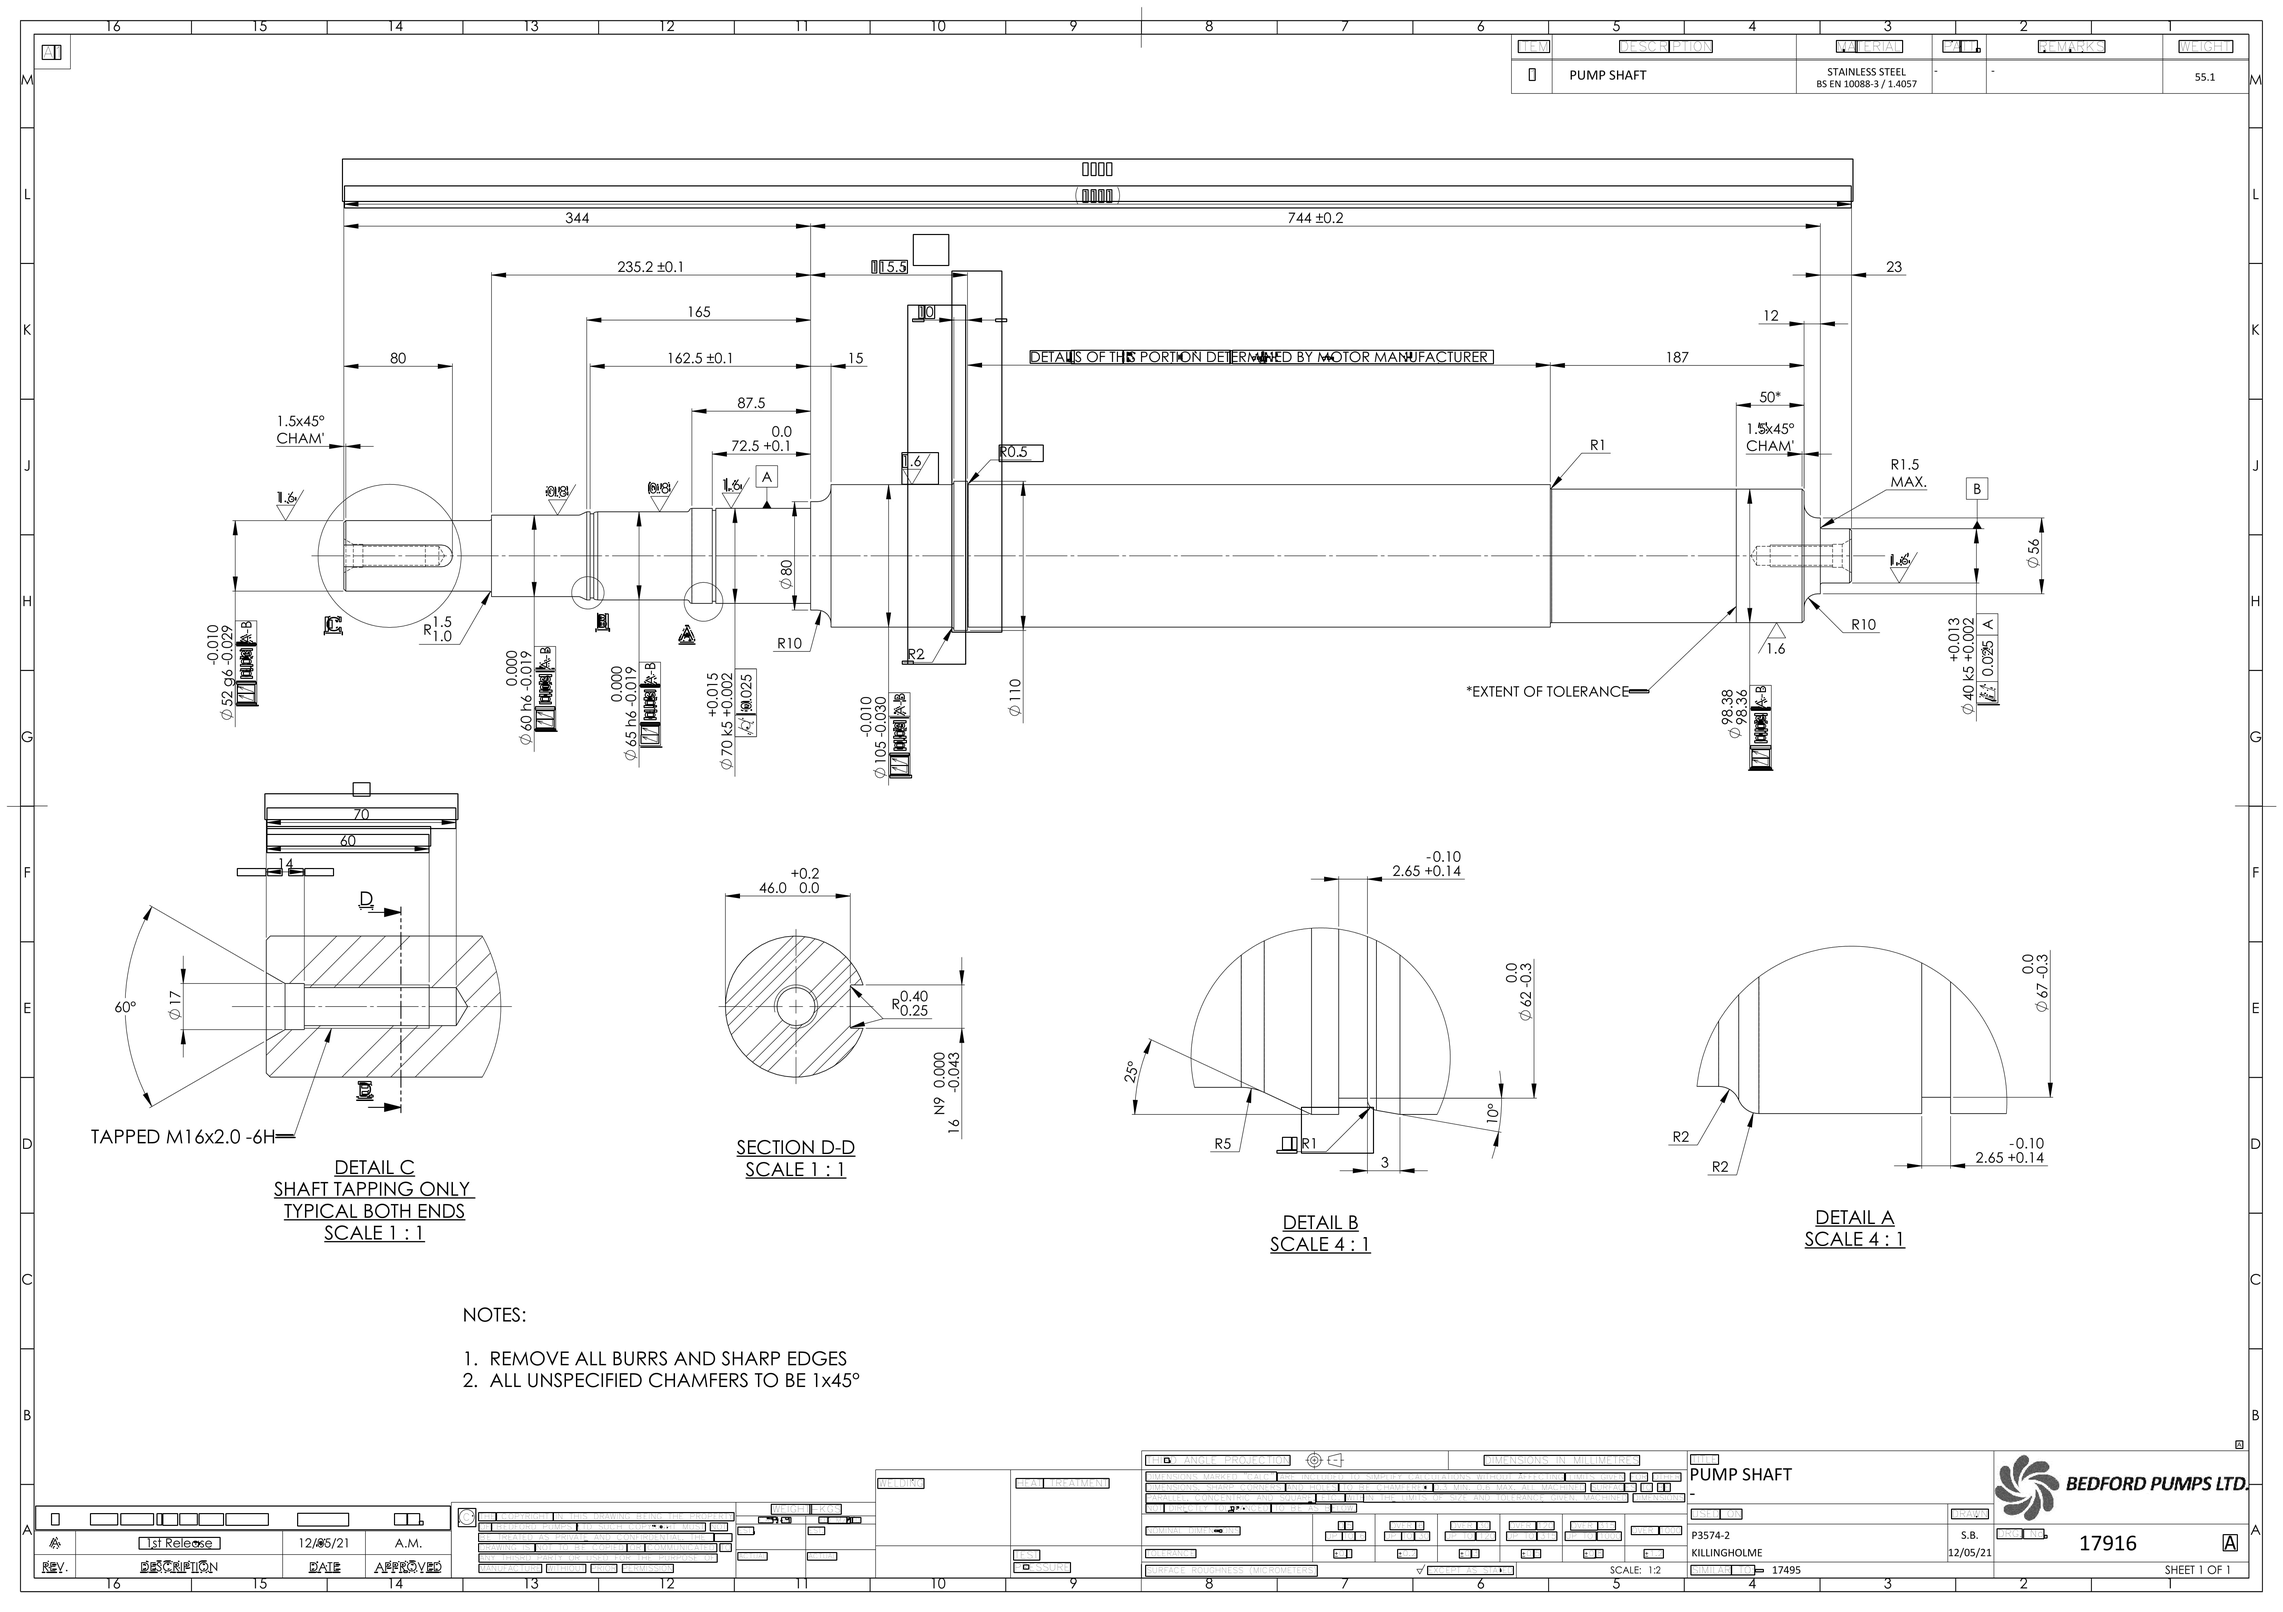
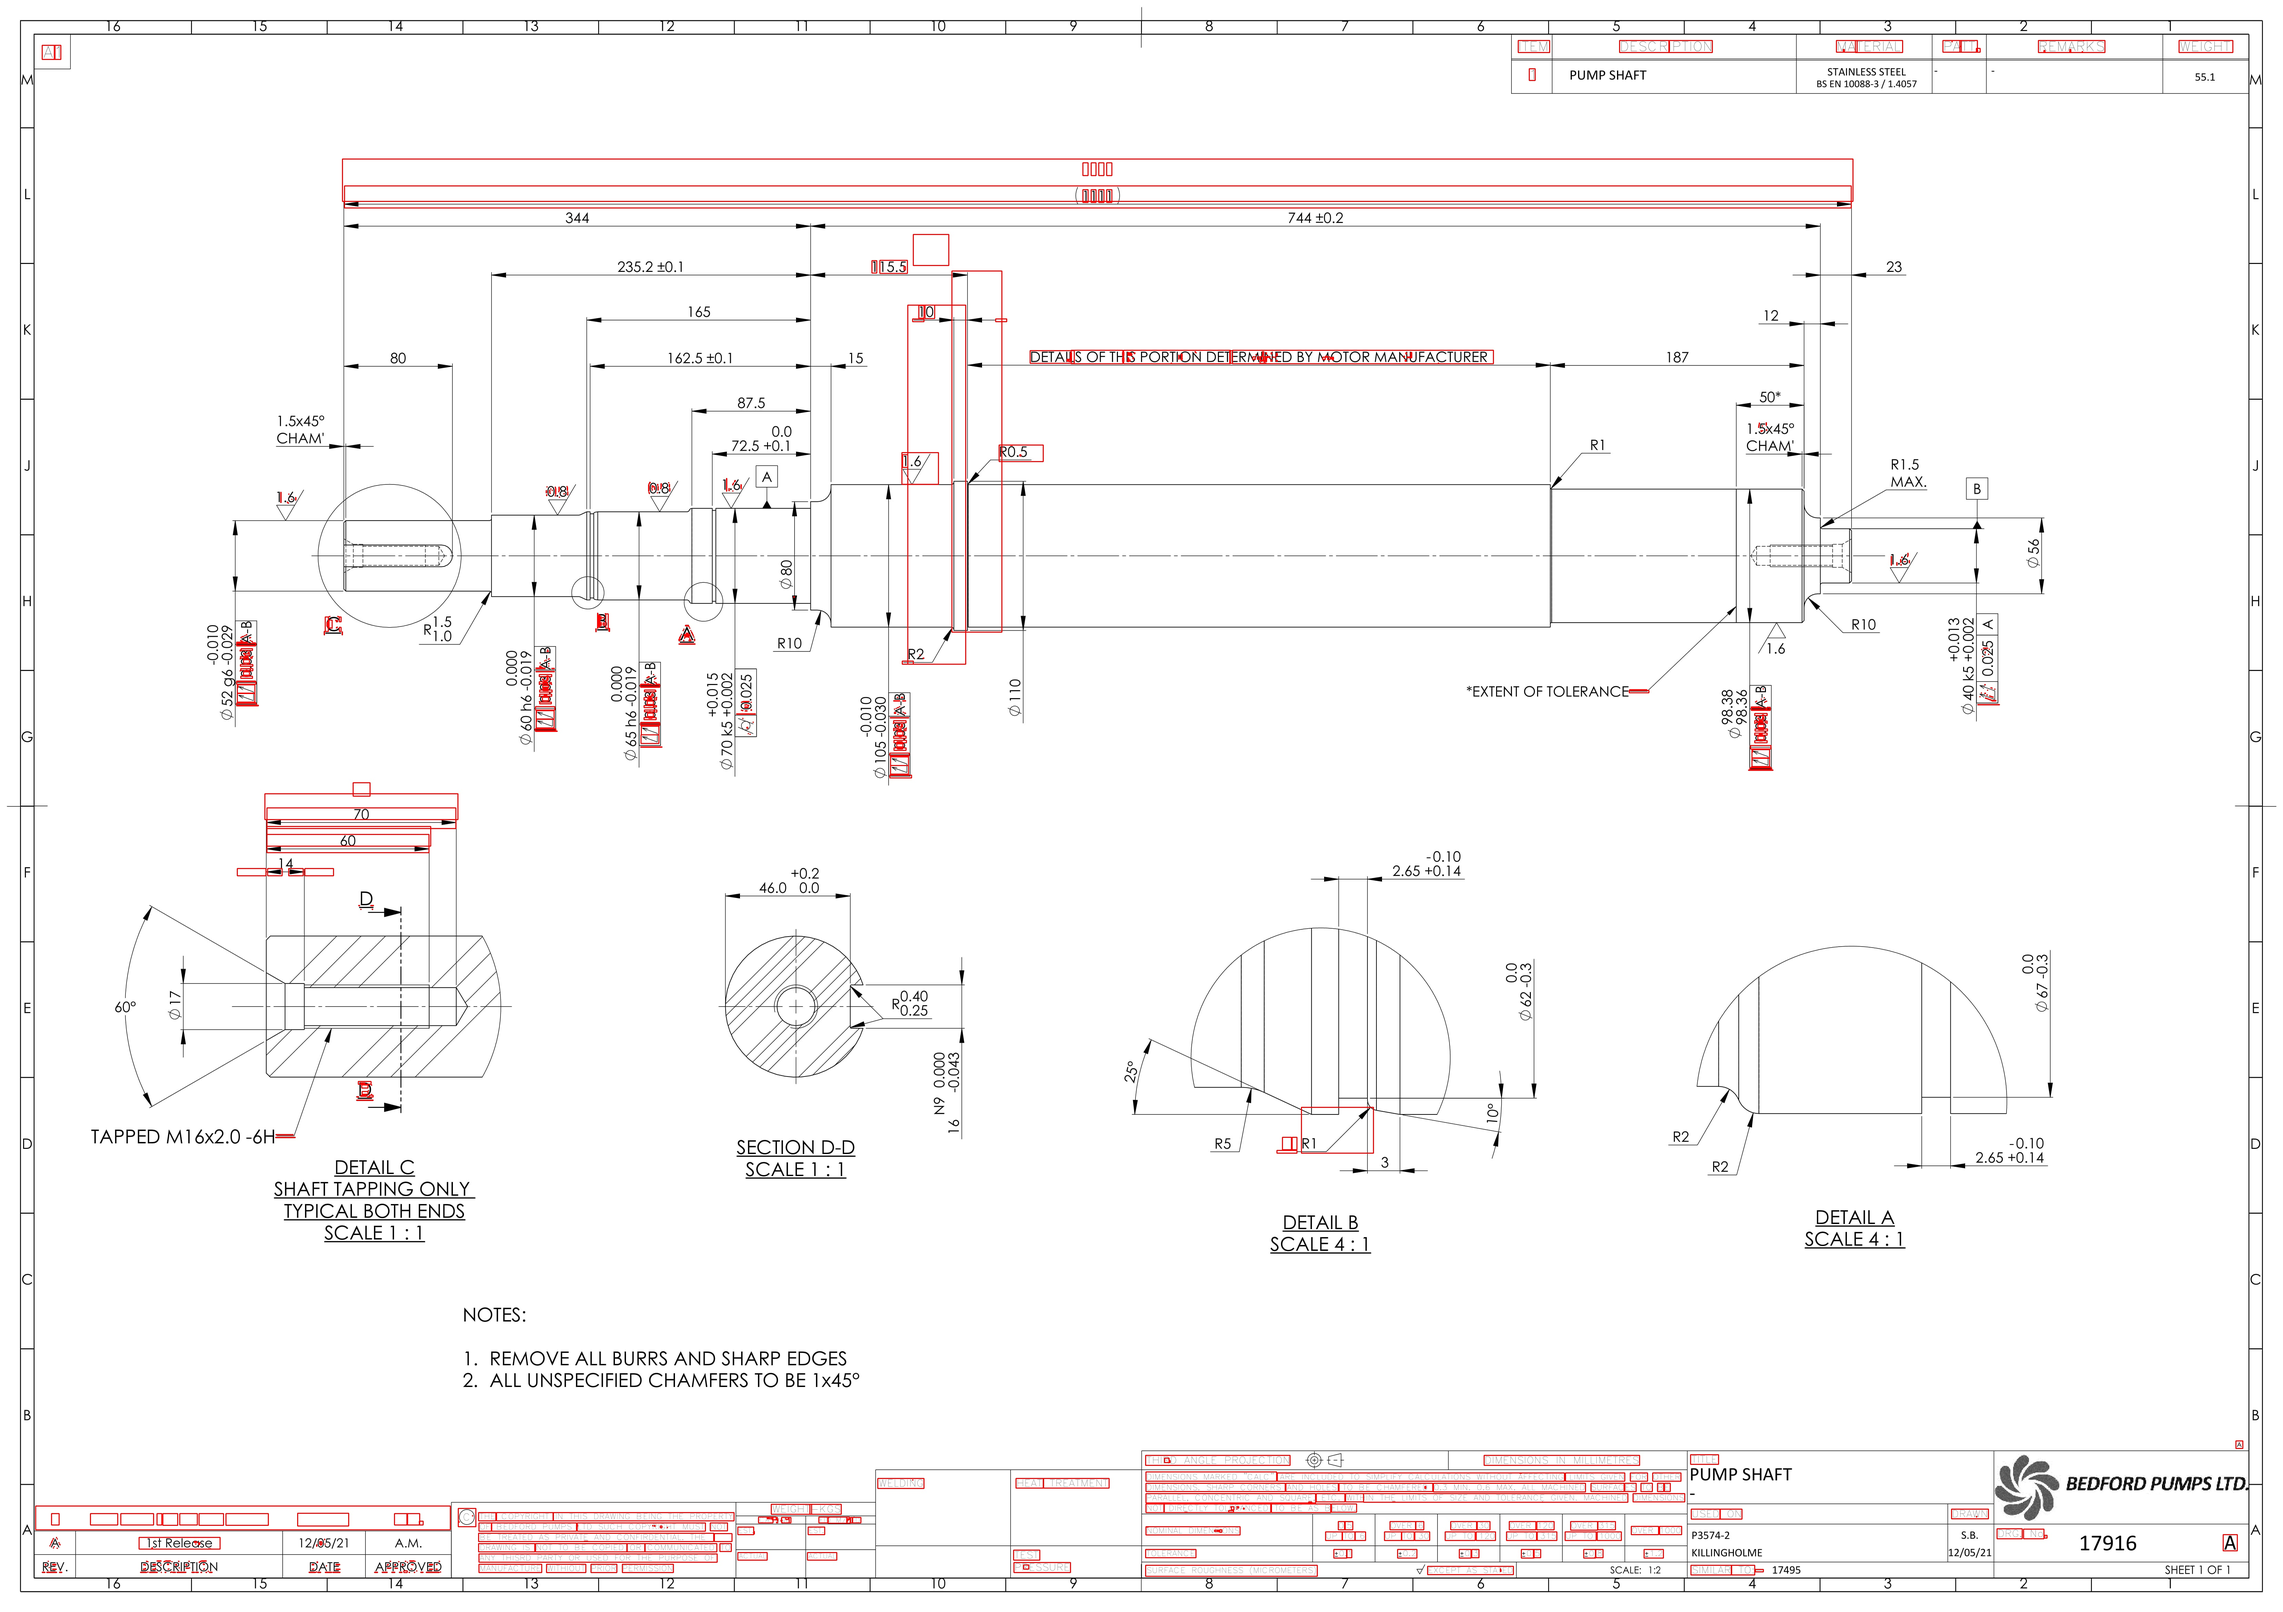
fixed boundaries to be red

diff --git a/main.py b/main.py
@@ -22,18 +22,18 @@ def loadImage():
     
     # load the two input images
     image1 = cv2.imread(args["first"])
-    # convert the images to grayscale
-    gray1 = cv2.cvtColor(image1, cv2.COLOR_BGR2GRAY)
     image2 = cv2.imread(args["second"])
-    gray2 = cv2.cvtColor(image2, cv2.COLOR_BGR2GRAY)
     
-    return gray1, gray2
+    return image1, image2
 
 
-def SSIM(gray1, gray2):
+def SSIM(image1, image2):
     # compute the Structural Similarity Index (SSIM)
     # The score represents the structural similarity index between the two input images. 
     # This value can fall into the range [-1, 1] with a value of one being a “perfect match”.
+    # convert the images to grayscale
+    gray1 = cv2.cvtColor(image1, cv2.COLOR_BGR2GRAY)
+    gray2 = cv2.cvtColor(image2, cv2.COLOR_BGR2GRAY)
     (score, diff) = compare_ssim(gray1, gray2, full=True)
     diff = (diff * 255).astype("uint8")
     print(f"SSIM: {score}")
@@ -57,18 +57,10 @@ def findDiff(diff, img1, img2):
         (x, y, w, h) = cv2.boundingRect(c)
         cv2.rectangle(img1, (x, y), (x + w, y + h), (0, 0, 255), 2)
         cv2.rectangle(img2, (x, y), (x + w, y + h), (0, 0, 255), 2)
+        
     # show and save the output images
-    # cv2.imshow("Original", img1)
-    normed_img1 = np.zeros(np.shape(img1))
-    img1 = cv2.normalize(img1, normed_img1, 0, 255, cv2.NORM_MINMAX)
-    cv2.imwrite("D:\\Scripts\\drawingComparison\\examples\\Original_Bounding_Box.jpg", img1)
-    # cv2.imshow("Revised", img2)
     cv2.imwrite("D:\\Scripts\\drawingComparison\\examples\\Revised_Bounding_Box.jpg", img2)
-    # cv2.imshow("Difference", diff)
     cv2.imwrite("D:\\Scripts\\drawingComparison\\examples\\Difference.jpg", diff)
-    # cv2.imshow("Thresh", thresh)
-    cv2.imwrite("D:\\Scripts\\drawingComparison\\examples\\Thresh.jpg", thresh)
-    # cv2.waitKey(0)  
     
 
 if __name__ == "__main__":

diff --git a/test.py b/test.py
@@ -8,11 +8,7 @@ if __name__ == "__main__":
     img1_path = "D:\\Scripts\\drawingComparison\\examples\\17916_A-1.jpg"
     img2_path = "D:\\Scripts\\drawingComparison\\examples\\17916_B-1.jpg"
     # load the two input images
-    image1 = cv2.imread(img1_path)
-    image2 = cv2.imread(img2_path)
-    # convert the images to grayscale
-    gray1 = cv2.cvtColor(image1, cv2.COLOR_BGR2GRAY)
-    gray2 = cv2.cvtColor(image2, cv2.COLOR_BGR2GRAY)
-
+    img1 = cv2.imread(img1_path)
+    img2 = cv2.imread(img2_path)
     
-    main.run(gray1, gray2)
+    main.run(img1, img2)
